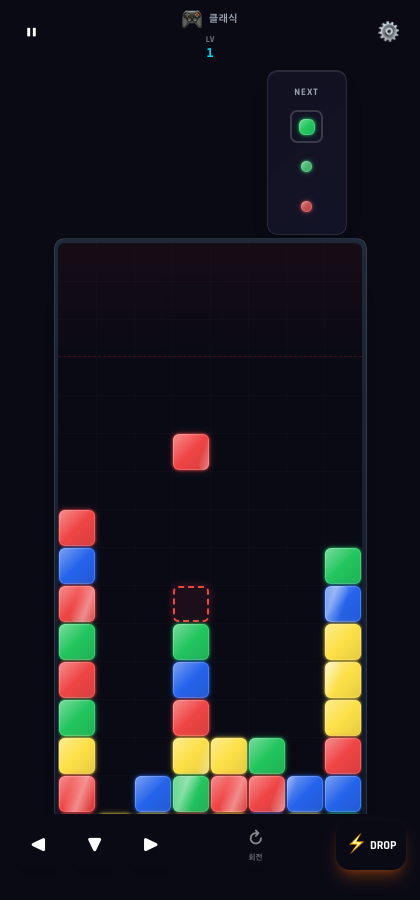
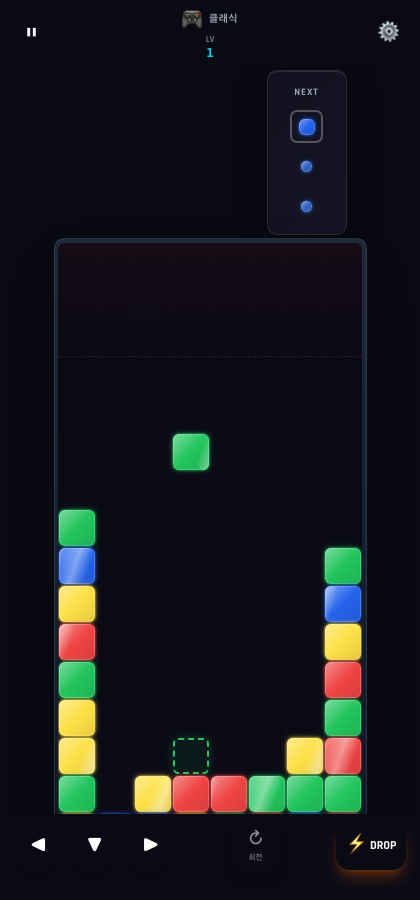
docs: 데스크톱 조작 버그 및 후속 수정 기록

diff --git a/docs/REMASTER_PLAN.md b/docs/REMASTER_PLAN.md
@@ -228,6 +228,24 @@ L18 조각 4      L20 색 7
 ⚠ 시뮬 봇은 회전을 쓰지 않는 그리디라 3칸 이상 조각의 난이도를 과대평가한다.
 실제 사람 플레이 기준으로는 L10 전환이 시뮬보다 완만할 것으로 본다 — 실기기 체감 검증 필요.
 
+### 후속 수정 (사용자 실사용 제보 반영)
+
+**"블록이 안 내려간다" — 데스크톱 조작 버튼 전면 무반응.**
+TouchControls의 ◀ ▼ ▶ 회전 DROP이 전부 `onTouchStart`만 바인딩돼 있어
+마우스 환경에서는 아무 반응이 없었다. 레벨 4 자연낙하가 895ms/칸인데
+가속 수단이 없으니 멈춘 것처럼 보였다. 리마스터 이전부터 있던 결함이며,
+스모크 테스트가 키보드만 검증해 놓쳤다.
+
+→ Pointer Event로 재작성(마우스·터치·펜 단일 경로) + 홀드 반복 추가.
+→ 교훈: **입력 검증은 키보드와 포인터를 모두 눌러봐야 한다.**
+
+부수적으로 발견해 함께 고친 것:
+- 파워업 만료 경로가 raw `setTimeout` 하나뿐 → 일시정지·재시작에 취약,
+  `freeze`가 걸리면 낙하 영구 정지. 스토어 게임시간 틱으로 이관.
+- #20 콤보 타이머 일원화 (훅 setTimeout 제거, 스토어 단일 진실)
+- #29 얼음블록이 한 스텝에서 2단계 처리되던 경로 차단
+- §3.4 특수블록 9종 → 6종 (shuffle·colorShift 등장 중지)
+
 ### 남은 과제
 
 1. **Firebase 새 프로젝트 생성** — 코드는 환경변수로 분리했으나, 실제 프로젝트 생성과
@@ -235,6 +253,7 @@ L18 조각 4      L20 색 7
    그때까지 리더보드는 로컬 전용으로 동작한다.
 2. **과거 커밋의 API 키** — 워킹트리는 정리됐지만 git 히스토리의 gh-pages 빌드 산출물
    21곳에 이전 키가 남아 있다. 히스토리 재작성 대신 **Firebase 콘솔에서 해당 키 제한/회전** 권장.
-3. #20 콤보 타이머 완전 일원화, #29 얼음블록 2단계 처리.
-4. 특수블록 9종 → 6종 축소(§3.4)는 시인성 실측 후 판단 보류.
+3. ~~#20 콤보 타이머 일원화, #29 얼음블록 2단계 처리~~ → 완료
+4. ~~특수블록 9종 → 6종 축소(§3.4)~~ → 완료 (shuffle·colorShift 등장 중지)
 5. 배틀패스는 버튼을 숨기는 쪽으로 처리(구현 대신 제거).
+6. **스모크 테스트에 포인터 입력 경로 추가** — 이번 버그를 놓친 사각지대.
